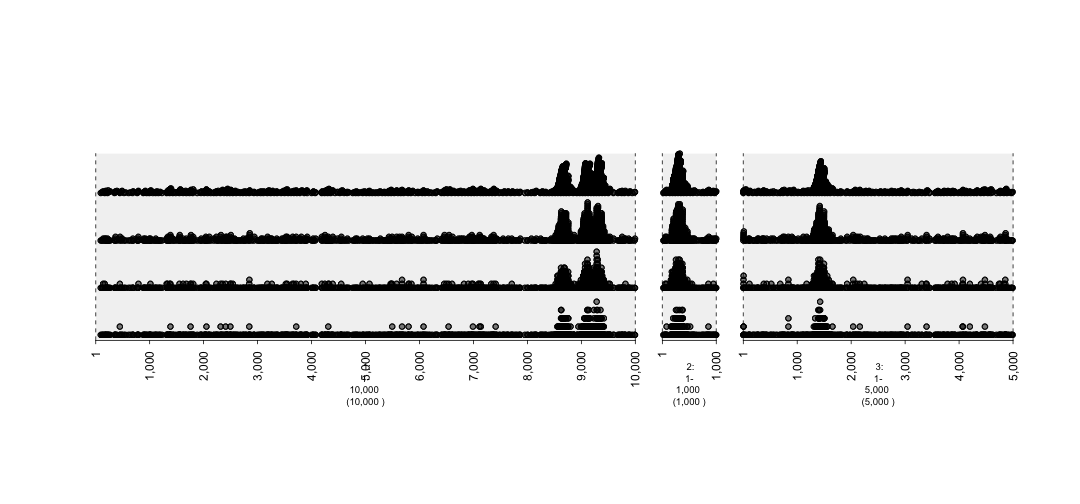
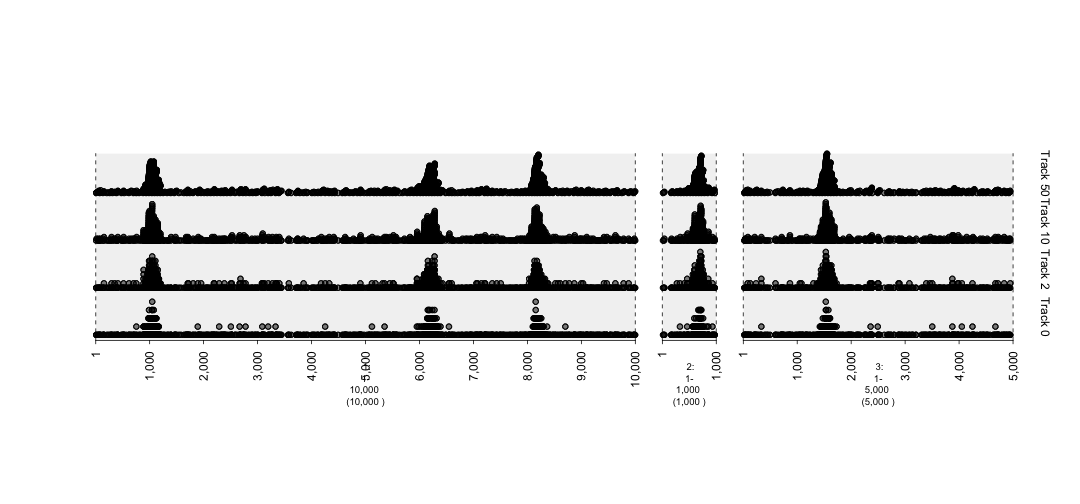
edit point mutations vignette

diff --git a/rtdocs/vignettePointMutations/vignettePointMutations.rst b/rtdocs/vignettePointMutations/vignettePointMutations.rst
@@ -1,57 +1,7 @@
-How To Graph Relationships In The Genome 
-=========================================================
+Graphing Point Mutations
+~~~~~~~~~~~~~~~~~~~~~~~~
 
-Genes interact with each other and gTrack is capable of graphing them. 
-
-In this vignette, the **draw.paths** and **circle** parameters of gTrack will aide in illustrating gene interactions. Specifically, they will be used in graphing variants in random sequences. 
-
-Using Draw.paths Parameter 
-~~~~~~~~~~~~~~~~~~~~~~~~~~
-
-To prepare a data set that illustrates the draw.paths parameter, a GRangesList storing RANDOM sequences in chromosomes 1,2, and 3 is created. Then, two graphs, one with and one without the draw.paths parameter will be made. The difference in the two show the affect the draw.paths parameter has on graphs. 
-
-
-.. sourcecode:: r
-    
-
-    gene1 = sort(sample(gUtils::gr.tile(gUtils::parse.gr('1:1-5e3+'), 50), 5))
-    gene2 = rev(sort(sample(gUtils::gr.tile(gUtils::parse.gr('2:1-5e3-'), 50), 12)))
-    gene3 = sort(sample(gUtils::gr.tile(gUtils::parse.gr('3:1-5e3+'), 50), 8))
-    
-    ##Create a column that keeps a counter of the exon number.
-    
-    gene1$exon = 1:length(gene1)
-    gene2$exon = 1:length(gene2)
-    gene3$exon = 1:length(gene3)
-    
-    ## Combine into GRangesList
-    grl = GRangesList(gene1 = gene1, gene2 = gene2, gene3 = gene3)
-    
-    gt.genes = gTrack(grl)
-    
-    ## Plot two graphs, one with and one without the draw.paths parameter. 
-    fusion = GRangesList(c(grl$gene1[1:3], grl$gene2[5:9], grl$gene3[7:8]))
-    gt.fusion = gTrack(fusion, draw.paths = FALSE)
-    gt.fusion.o = gTrack(fusion, draw.paths = TRUE)
-    
-    ## separating the windows for the graph. 
-    win = gUtils::parse.gr(c('1:1-1e4', '2:1-1e4', '3:1-1e4'))
-
-
-.. sourcecode:: r
-    
-
-    plot(c(gt.genes, gt.fusion, gt.fusion.o), win +1e3)
-
-.. figure:: figure/-plotList-1.png
-    :alt: plot of chunk -plotList
-
-    plot of chunk -plotList
-
-Graphing Copy Number Variations
-~~~~~~~~~~~~~~~~~~~~~~~~~~~~~~
-
-To illustrate gTrack's functionality in graphing copy number variations(CNVs), a data set of sequences is created and a few of them will are picked as variants. This data will be graphed and because there are outliers (variants), they will be easily visable. This vignette also exemplifies how/when to use the gTrack **stack.gap** parameter.  
+To illustrate gTrack's functionality in graphing point mutations, a data set of sequences is created and a few of them will are picked as variants. This data will be graphed and because there are outliers (variants), they will be easily visable. This vignette also exemplifies how/when to use the gTrack **stack.gap** parameter.  
 
 
 .. sourcecode:: r
@@ -75,57 +25,12 @@ To illustrate gTrack's functionality in graphing copy number variations(CNVs), a
 
     ## sample 2000 of the sequences. the one nearer to the hotspots will "probably" be selected.
     mut = sample(tiles, 2000, prob = prob, replace = TRUE) 
-
-
-::
-
-    ## Error in sample.int(length(x), size, replace, prob): incorrect number of probabilities
-
-
-.. sourcecode:: r
     
-
     ## graph with different degrees of stack.gap. The higher numeric supplied to stack.gap helps separate the data, visually. 
     gt.mut0 = gTrack(mut, circle = TRUE, stack.gap = 0, name = "Track 0")
-
-
-::
-
-    ## Error in listify(data, GRanges): object 'mut' not found
-
-
-.. sourcecode:: r
-    
-
     gt.mut2 = gTrack(mut, circle = TRUE, stack.gap = 2, name = "Track 2")
-
-
-::
-
-    ## Error in listify(data, GRanges): object 'mut' not found
-
-
-.. sourcecode:: r
-    
-
     gt.mut10 = gTrack(mut, circle = TRUE, stack.gap = 10, name = "Track 10")
-
-
-::
-
-    ## Error in listify(data, GRanges): object 'mut' not found
-
-
-.. sourcecode:: r
-    
-
     gt.mut50 = gTrack(mut, circle = TRUE, stack.gap = 50, name = "Track 50")
-
-
-::
-
-    ## Error in listify(data, GRanges): object 'mut' not found
-
 
 
 
@@ -135,9 +40,7 @@ To illustrate gTrack's functionality in graphing copy number variations(CNVs), a
     win = si2gr(fake.genome)
     plot(c(gt.mut0, gt.mut2, gt.mut10, gt.mut50), win)
 
+.. figure:: figure/mutations2-plot-1.png
+    :alt: plot of chunk mutations2-plot
 
-::
-
-    ## Error in plot(c(gt.mut0, gt.mut2, gt.mut10, gt.mut50), win): object 'gt.mut0' not found
-
-
+    plot of chunk mutations2-plot
